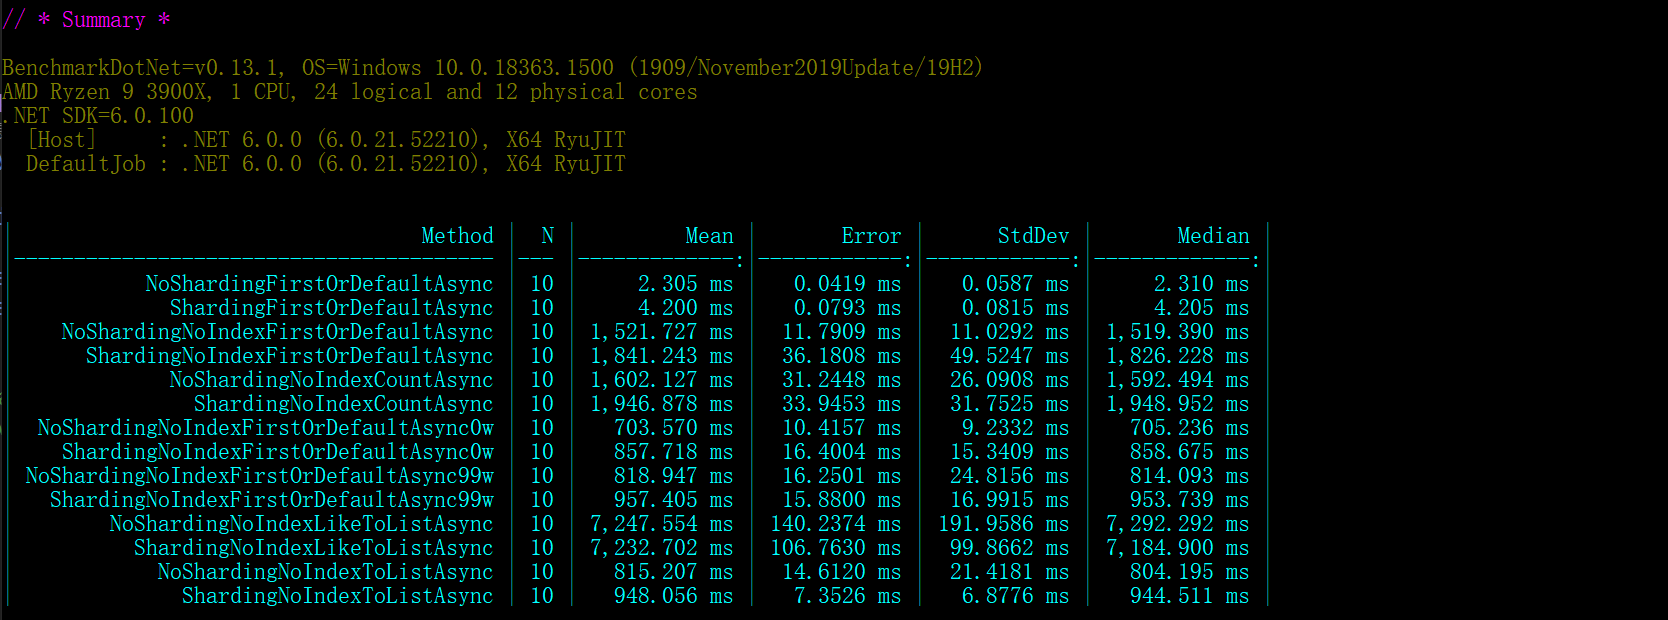
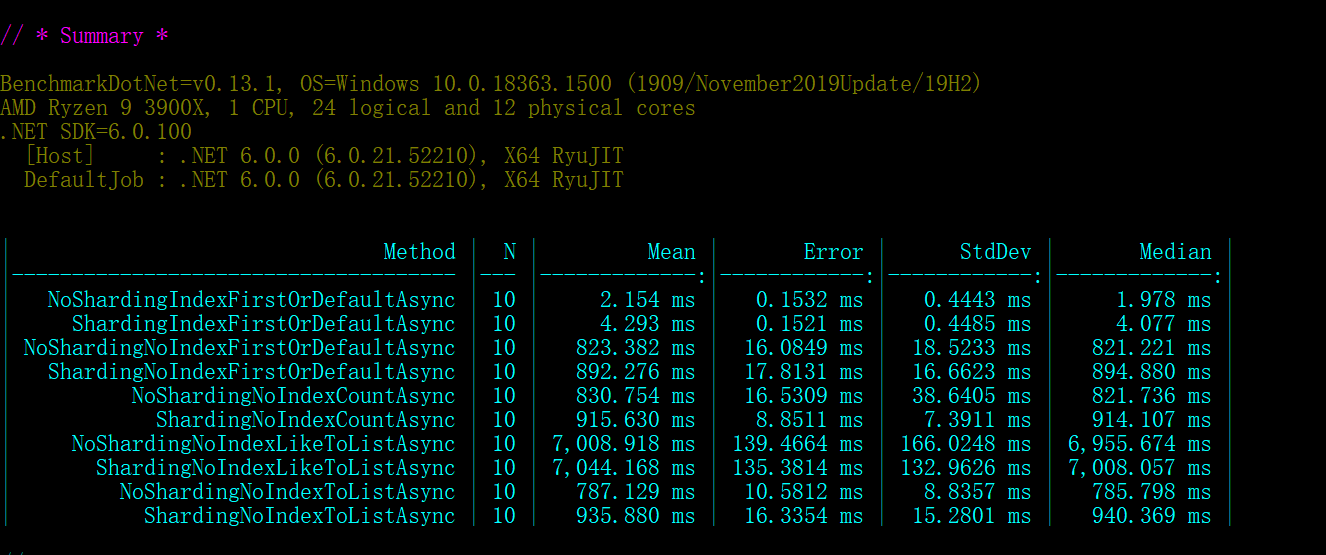
修改benchmark结果重新测试

diff --git a/benchmarks/ShardingCoreBenchmark/EFCoreCrud.cs b/benchmarks/ShardingCoreBenchmark/EFCoreCrud.cs
@@ -46,7 +46,7 @@ namespace ShardingCore6x
             var services = new ServiceCollection();
 
             services.AddDbContext<DefaultDbContext>(o => o
-                    //.UseMySql("server=127.0.0.1;port=3306;database=db1;userid=root;password=L6yBtV6qNENrwBy7;", new MySqlServerVersion(new Version()))
+                //.UseMySql("server=127.0.0.1;port=3306;database=db1;userid=root;password=L6yBtV6qNENrwBy7;", new MySqlServerVersion(new Version()))
                 .UseSqlServer("Data Source=localhost;Initial Catalog=db1;Integrated Security=True;")
                 , ServiceLifetime.Transient, ServiceLifetime.Transient);
             services.AddLogging();
@@ -221,84 +221,84 @@ namespace ShardingCore6x
         //        _virtualTable.RouteTo(new ShardingTableRouteConfig(queryable: queryable1));
         //    }
         //}
-        [Benchmark]
-        public async Task NoShardingFirstOrDefaultAsync()
-        {
-            for (int i = 0; i < N; i++)
-            {
-                var next = new Random().Next(1, 7000000).ToString();
-                var firstOrDefaultAsync = await _defaultDbContext.Set<Order>().FirstOrDefaultAsync(o => o.Id == next);
-            }
-        }
-        [Benchmark]
-        public async Task ShardingFirstOrDefaultAsync()
-        {
-            for (int i = 0; i < N; i++)
-            {
-                var next = new Random().Next(1, 7000000).ToString();
-                var firstOrDefaultAsync = await _defaultShardingDbContext.Set<Order>().FirstOrDefaultAsync(o => o.Id == next);
-            }
-        }
         //[Benchmark]
-        //public async Task NoShardingIndexFirstOrDefaultAsync()
+        //public async Task NoShardingFirstOrDefaultAsync()
         //{
         //    for (int i = 0; i < N; i++)
         //    {
-        //        var next = new Random().Next(1000000, 7000000).ToString();
+        //        var next = new Random().Next(1, 7000000).ToString();
         //        var firstOrDefaultAsync = await _defaultDbContext.Set<Order>().FirstOrDefaultAsync(o => o.Id == next);
         //    }
         //}
-
-
         //[Benchmark]
-        //public async Task ShardingIndexFirstOrDefaultAsync()
+        //public async Task ShardingFirstOrDefaultAsync()
         //{
         //    for (int i = 0; i < N; i++)
         //    {
-        //        var next = new Random().Next(1000000, 7000000).ToString();
+        //        var next = new Random().Next(1, 7000000).ToString();
         //        var firstOrDefaultAsync = await _defaultShardingDbContext.Set<Order>().FirstOrDefaultAsync(o => o.Id == next);
         //    }
         //}
-        //[Benchmark]
-        //public async Task NoShardingNoIndexFirstOrDefaultAsync()
-        //{
-        //    for (int i = 0; i < N; i++)
-        //    {
-        //        var firstOrDefaultAsync1 = await _defaultDbContext.Set<Order>().FirstOrDefaultAsync(o => o.Amount == 0);
-        //        var firstOrDefaultAsync2 = await _defaultDbContext.Set<Order>().FirstOrDefaultAsync(o => o.Amount == 999999);
-        //    }
-        //}
+        [Benchmark]
+        public async Task NoShardingIndexFirstOrDefaultAsync()
+        {
+            for (int i = 0; i < N; i++)
+            {
+                var next = new Random().Next(1000000, 7000000).ToString();
+                var firstOrDefaultAsync = await _defaultDbContext.Set<Order>().FirstOrDefaultAsync(o => o.Id == next);
+            }
+        }
 
 
-        //[Benchmark]
-        //public async Task ShardingNoIndexFirstOrDefaultAsync()
-        //{
-        //    for (int i = 0; i < N; i++)
-        //    {
-        //        var firstOrDefaultAsync1 = await _defaultShardingDbContext.Set<Order>().FirstOrDefaultAsync(o => o.Amount == 0);
-        //        var firstOrDefaultAsync2 = await _defaultShardingDbContext.Set<Order>().FirstOrDefaultAsync(o => o.Amount == 999999);
-        //    }
-        //}
-        //[Benchmark]
-        //public async Task NoShardingNoIndexCountAsync()
-        //{
-        //    for (int i = 0; i < N; i++)
-        //    {
-        //        var firstOrDefaultAsync1 = await _defaultDbContext.Set<Order>().CountAsync(o => o.Amount == 0);
-        //        var firstOrDefaultAsync2 = await _defaultDbContext.Set<Order>().CountAsync(o => o.Amount == 999999);
-        //    }
-        //}
+        [Benchmark]
+        public async Task ShardingIndexFirstOrDefaultAsync()
+        {
+            for (int i = 0; i < N; i++)
+            {
+                var next = new Random().Next(1000000, 7000000).ToString();
+                var firstOrDefaultAsync = await _defaultShardingDbContext.Set<Order>().FirstOrDefaultAsync(o => o.Id == next);
+            }
+        }
+        [Benchmark]
+        public async Task NoShardingNoIndexFirstOrDefaultAsync()
+        {
+            for (int i = 0; i < N; i++)
+            {
+                var next = new Random().Next(1000000, 7000000);
+                var firstOrDefaultAsync1 = await _defaultDbContext.Set<Order>().FirstOrDefaultAsync(o => o.Amount == next);
+            }
+        }
 
 
-        //[Benchmark]
-        //public async Task ShardingNoIndexCountAsync()
-        //{
-        //    for (int i = 0; i < N; i++)
-        //    {
-        //        var firstOrDefaultAsync1 = await _defaultShardingDbContext.Set<Order>().CountAsync(o => o.Amount == 0);
-        //        var firstOrDefaultAsync2 = await _defaultShardingDbContext.Set<Order>().CountAsync(o => o.Amount == 999999);
-        //    }
-        //}
+        [Benchmark]
+        public async Task ShardingNoIndexFirstOrDefaultAsync()
+        {
+            for (int i = 0; i < N; i++)
+            {
+                var next = new Random().Next(1000000, 7000000);
+                var firstOrDefaultAsync1 = await _defaultShardingDbContext.Set<Order>().FirstOrDefaultAsync(o => o.Amount == next);
+            }
+        }
+        [Benchmark]
+        public async Task NoShardingNoIndexCountAsync()
+        {
+            for (int i = 0; i < N; i++)
+            {
+                var next = new Random().Next(1000000, 7000000);
+                var firstOrDefaultAsync1 = await _defaultDbContext.Set<Order>().CountAsync(o => o.Amount == next);
+            }
+        }
+
+
+        [Benchmark]
+        public async Task ShardingNoIndexCountAsync()
+        {
+            for (int i = 0; i < N; i++)
+            {
+                var next = new Random().Next(1000000, 7000000);
+                var firstOrDefaultAsync1 = await _defaultShardingDbContext.Set<Order>().CountAsync(o => o.Amount == next);
+            }
+        }
         //[Benchmark]
         //public async Task NoShardingNoIndexFirstOrDefaultAsync0w()
         //{
@@ -333,46 +333,46 @@ namespace ShardingCore6x
         //}
 
 
-        //[Benchmark]
-        //public async Task NoShardingNoIndexLikeToListAsync()
-        //{
-        //    for (int i = 0; i < N; i++)
-        //    {
-        //        var next = new Random().Next(1, 7000000).ToString();
-        //        var firstOrDefaultAsync = await _defaultDbContext.Set<Order>().Where(o => o.Body.Contains(next)).ToListAsync();
-        //    }
-        //}
+        [Benchmark]
+        public async Task NoShardingNoIndexLikeToListAsync()
+        {
+            for (int i = 0; i < N; i++)
+            {
+                var next = new Random().Next(1, 7000000).ToString();
+                var firstOrDefaultAsync = await _defaultDbContext.Set<Order>().Where(o => o.Body.Contains(next)).ToListAsync();
+            }
+        }
 
 
-        //[Benchmark]
-        //public async Task ShardingNoIndexLikeToListAsync()
-        //{
-        //    for (int i = 0; i < N; i++)
-        //    {
-        //        var next = new Random().Next(1, 7000000).ToString();
-        //        var firstOrDefaultAsync = await _defaultShardingDbContext.Set<Order>().Where(o => o.Body.Contains(next)).ToListAsync();
-        //    }
-        //}
-        //[Benchmark]
-        //public async Task NoShardingNoIndexToListAsync()
-        //{
-        //    for (int i = 0; i < N; i++)
-        //    {
-        //        var next = new Random().Next(1, 7000000);
-        //        var firstOrDefaultAsync = await _defaultDbContext.Set<Order>().Where(o => o.Amount == next).ToListAsync();
-        //    }
-        //}
+        [Benchmark]
+        public async Task ShardingNoIndexLikeToListAsync()
+        {
+            for (int i = 0; i < N; i++)
+            {
+                var next = new Random().Next(1, 7000000).ToString();
+                var firstOrDefaultAsync = await _defaultShardingDbContext.Set<Order>().Where(o => o.Body.Contains(next)).ToListAsync();
+            }
+        }
+        [Benchmark]
+        public async Task NoShardingNoIndexToListAsync()
+        {
+            for (int i = 0; i < N; i++)
+            {
+                var next = new Random().Next(1, 7000000);
+                var firstOrDefaultAsync = await _defaultDbContext.Set<Order>().Where(o => o.Amount == next).ToListAsync();
+            }
+        }
 
 
-        //[Benchmark]
-        //public async Task ShardingNoIndexToListAsync()
-        //{
-        //    for (int i = 0; i < N; i++)
-        //    {
-        //        var next = new Random().Next(1, 7000000);
-        //        var firstOrDefaultAsync = await _defaultShardingDbContext.Set<Order>().Where(o => o.Amount == next).ToListAsync();
-        //    }
-        //}
+        [Benchmark]
+        public async Task ShardingNoIndexToListAsync()
+        {
+            for (int i = 0; i < N; i++)
+            {
+                var next = new Random().Next(1, 7000000);
+                var firstOrDefaultAsync = await _defaultShardingDbContext.Set<Order>().Where(o => o.Amount == next).ToListAsync();
+            }
+        }
         //[Benchmark]
         //public void ShardingRouteFirstOrDefault()
         //{

diff --git a/test/ShardingCore.Test/ShardingTest.cs b/test/ShardingCore.Test/ShardingTest.cs
@@ -127,6 +127,7 @@ namespace ShardingCore.Test
             Assert.Equal(x, y);
             var dateTime = new DateTime(2021, 1, 1);
             var logDays = Enumerable.Range(0, 100).Select(o => new LogDay() { Id = Guid.NewGuid(), LogLevel = "info", LogBody = o.ToString(), LogTime = dateTime.AddDays(o) }).ToList();
+
             var bulkShardingTableEnumerable = _virtualDbContext.BulkShardingTableEnumerable(logDays);
             Assert.Equal(100, bulkShardingTableEnumerable.Count);
             var bulkShardingEnumerable = _virtualDbContext.BulkShardingEnumerable(logDays);

diff --git a/README.md b/README.md
@@ -46,22 +46,18 @@ AMD Ryzen 9 3900X, 1 CPU, 24 logical and 12 physical cores
   DefaultJob : .NET 6.0.0 (6.0.21.52210), X64 RyuJIT
 
 
-|                                  Method |  N |         Mean |       Error |      StdDev |       Median |
-|---------------------------------------- |--- |-------------:|------------:|------------:|-------------:|
-|           NoShardingFirstOrDefaultAsync | 10 |     2.305 ms |   0.0419 ms |   0.0587 ms |     2.310 ms |
-|             ShardingFirstOrDefaultAsync | 10 |     4.200 ms |   0.0793 ms |   0.0815 ms |     4.205 ms |
-|    NoShardingNoIndexFirstOrDefaultAsync | 10 | 1,521.727 ms |  11.7909 ms |  11.0292 ms | 1,519.390 ms |
-|      ShardingNoIndexFirstOrDefaultAsync | 10 | 1,841.243 ms |  36.1808 ms |  49.5247 ms | 1,826.228 ms |
-|             NoShardingNoIndexCountAsync | 10 | 1,602.127 ms |  31.2448 ms |  26.0908 ms | 1,592.494 ms |
-|               ShardingNoIndexCountAsync | 10 | 1,946.878 ms |  33.9453 ms |  31.7525 ms | 1,948.952 ms |
-|  NoShardingNoIndexFirstOrDefaultAsync0w | 10 |   703.570 ms |  10.4157 ms |   9.2332 ms |   705.236 ms |
-|    ShardingNoIndexFirstOrDefaultAsync0w | 10 |   857.718 ms |  16.4004 ms |  15.3409 ms |   858.675 ms |
-| NoShardingNoIndexFirstOrDefaultAsync99w | 10 |   818.947 ms |  16.2501 ms |  24.8156 ms |   814.093 ms |
-|   ShardingNoIndexFirstOrDefaultAsync99w | 10 |   957.405 ms |  15.8800 ms |  16.9915 ms |   953.739 ms |
-|        NoShardingNoIndexLikeToListAsync | 10 | 7,247.554 ms | 140.2374 ms | 191.9586 ms | 7,292.292 ms |
-|          ShardingNoIndexLikeToListAsync | 10 | 7,232.702 ms | 106.7630 ms |  99.8662 ms | 7,184.900 ms |
-|            NoShardingNoIndexToListAsync | 10 |   815.207 ms |  14.6120 ms |  21.4181 ms |   804.195 ms |
-|              ShardingNoIndexToListAsync | 10 |   948.056 ms |   7.3526 ms |   6.8776 ms |   944.511 ms |
+|                               Method |  N |         Mean |       Error |      StdDev |       Median |
+|------------------------------------- |--- |-------------:|------------:|------------:|-------------:|
+|   NoShardingIndexFirstOrDefaultAsync | 10 |     2.154 ms |   0.1532 ms |   0.4443 ms |     1.978 ms |
+|     ShardingIndexFirstOrDefaultAsync | 10 |     4.293 ms |   0.1521 ms |   0.4485 ms |     4.077 ms |
+| NoShardingNoIndexFirstOrDefaultAsync | 10 |   823.382 ms |  16.0849 ms |  18.5233 ms |   821.221 ms |
+|   ShardingNoIndexFirstOrDefaultAsync | 10 |   892.276 ms |  17.8131 ms |  16.6623 ms |   894.880 ms |
+|          NoShardingNoIndexCountAsync | 10 |   830.754 ms |  16.5309 ms |  38.6405 ms |   821.736 ms |
+|            ShardingNoIndexCountAsync | 10 |   915.630 ms |   8.8511 ms |   7.3911 ms |   914.107 ms |
+|     NoShardingNoIndexLikeToListAsync | 10 | 7,008.918 ms | 139.4664 ms | 166.0248 ms | 6,955.674 ms |
+|       ShardingNoIndexLikeToListAsync | 10 | 7,044.168 ms | 135.3814 ms | 132.9626 ms | 7,008.057 ms |
+|         NoShardingNoIndexToListAsync | 10 |   787.129 ms |  10.5812 ms |   8.8357 ms |   785.798 ms |
+|           ShardingNoIndexToListAsync | 10 |   935.880 ms |  16.3354 ms |  15.2801 ms |   940.369 ms |
 
 #### mysql 5.7,data rows 7553790=755w innerdb_buffer_size=3G
 
@@ -75,22 +71,18 @@ AMD Ryzen 9 3900X, 1 CPU, 24 logical and 12 physical cores
   DefaultJob : .NET 6.0.0 (6.0.21.52210), X64 RyuJIT
 
 
-|                                  Method |  N |          Mean |       Error |      StdDev |        Median |
-|---------------------------------------- |--- |--------------:|------------:|------------:|--------------:|
-|           NoShardingFirstOrDefaultAsync | 10 |     10.092 ms |   1.6571 ms |   4.5082 ms |      8.677 ms |
-|             ShardingFirstOrDefaultAsync | 10 |      9.082 ms |   0.1810 ms |   0.3445 ms |      9.096 ms |
-|    NoShardingNoIndexFirstOrDefaultAsync | 10 |      6.586 ms |   0.0795 ms |   0.0705 ms |      6.565 ms |
-|      ShardingNoIndexFirstOrDefaultAsync | 10 |     17.617 ms |   0.3345 ms |   0.3129 ms |     17.481 ms |
-|             NoShardingNoIndexCountAsync | 10 |      6.498 ms |   0.1188 ms |   0.1415 ms |      6.454 ms |
-|               ShardingNoIndexCountAsync | 10 |     17.791 ms |   0.2928 ms |   0.2739 ms |     17.805 ms |
-|  NoShardingNoIndexFirstOrDefaultAsync0w | 10 |      3.239 ms |   0.0285 ms |   0.0267 ms |      3.231 ms |
-|    ShardingNoIndexFirstOrDefaultAsync0w | 10 |      8.826 ms |   0.1719 ms |   0.1688 ms |      8.806 ms |
-| NoShardingNoIndexFirstOrDefaultAsync99w | 10 |      3.260 ms |   0.0208 ms |   0.0194 ms |      3.257 ms |
-|   ShardingNoIndexFirstOrDefaultAsync99w | 10 |      8.634 ms |   0.1062 ms |   0.0994 ms |      8.653 ms |
-|        NoShardingNoIndexLikeToListAsync | 10 | 26,941.543 ms | 138.5988 ms | 129.6454 ms | 26,920.578 ms |
-|          ShardingNoIndexLikeToListAsync | 10 |  5,840.364 ms | 112.0434 ms | 115.0604 ms |  5,797.137 ms |
-|            NoShardingNoIndexToListAsync | 10 | 25,865.136 ms | 115.6391 ms | 102.5111 ms | 25,847.258 ms |
-|              ShardingNoIndexToListAsync | 10 |  5,502.922 ms |  92.7201 ms |  86.7305 ms |  5,483.847 ms |
+|                               Method |  N |          Mean |       Error |        StdDev |        Median |
+|------------------------------------- |--- |--------------:|------------:|--------------:|--------------:|
+|   NoShardingIndexFirstOrDefaultAsync | 10 |      5.020 ms |   0.1245 ms |     0.3672 ms |      4.855 ms |
+|     ShardingIndexFirstOrDefaultAsync | 10 |      7.960 ms |   0.1585 ms |     0.2514 ms |      7.974 ms |
+| NoShardingNoIndexFirstOrDefaultAsync | 10 | 11,336.083 ms | 623.8044 ms | 1,829.5103 ms | 11,185.590 ms |
+|   ShardingNoIndexFirstOrDefaultAsync | 10 |  5,422.259 ms |  77.5386 ms |    72.5296 ms |  5,390.019 ms |
+|          NoShardingNoIndexCountAsync | 10 | 14,229.819 ms |  82.8929 ms |    77.5381 ms | 14,219.773 ms |
+|            ShardingNoIndexCountAsync | 10 |  3,085.268 ms |  55.5942 ms |    49.2828 ms |  3,087.704 ms |
+|     NoShardingNoIndexLikeToListAsync | 10 | 27,046.390 ms |  71.2034 ms |    59.4580 ms | 27,052.316 ms |
+|       ShardingNoIndexLikeToListAsync | 10 |  5,707.009 ms | 106.8713 ms |    99.9675 ms |  5,672.453 ms |
+|         NoShardingNoIndexToListAsync | 10 | 26,001.850 ms |  89.2787 ms |    69.7030 ms | 25,998.407 ms |
+|           ShardingNoIndexToListAsync | 10 |  5,490.659 ms |  71.8199 ms |    67.1804 ms |  5,477.891 ms |
 
 具体可以通过first前两次结果来计算得出结论单次查询的的损耗为0.2-0.3毫秒之间,通过数据聚合和数据路由的损耗单次在0.3ms-0.4ms,其中创建dbcontext为0.1毫秒目前没有好的优化方案,0.013毫秒左右是路由表达式解析和编译,复杂表达式可能更加耗时,剩下的0.2毫秒为数据源和表后缀的解析等操作包括实例的反射创建和数据的聚合，
 sqlserver的各项数据在分表和未分表的情况下都几乎差不多可以得出在770w数据集情况下数据库还并未是数据瓶颈的关键，但是mysql可以看到在分表和未分表的情况下如果涉及到没有索引的全表扫描那么性能的差距将是分表后的表数目之多，测试中为5-6倍，也就是分表数目
